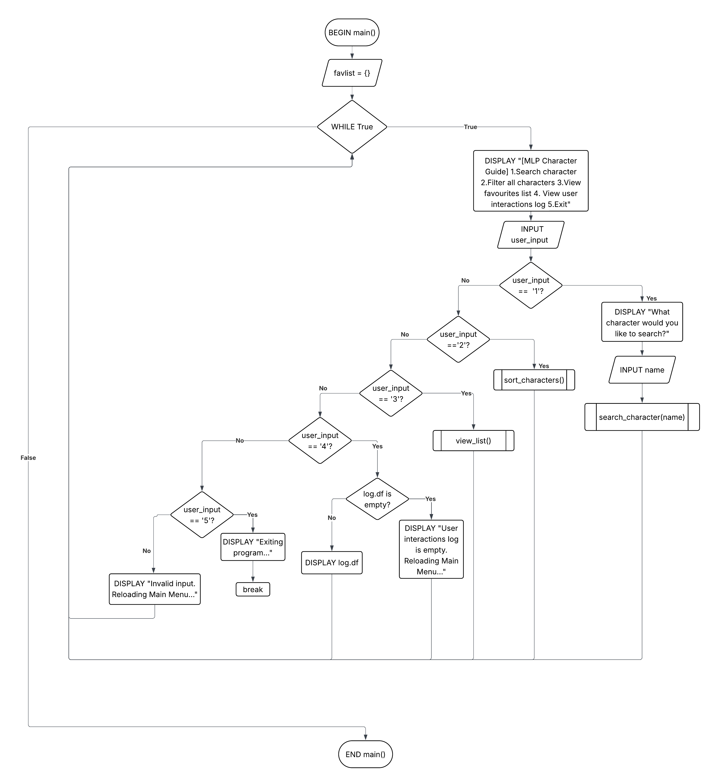
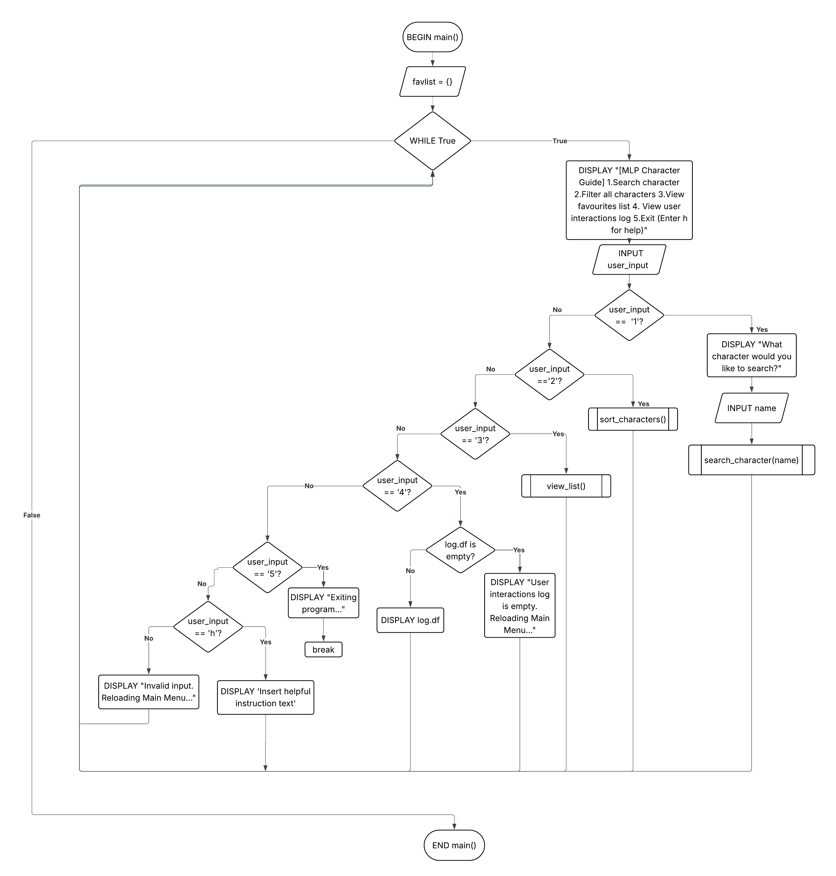
refactor: update flowchart + pseudocode
updated flowchart and pseudocode for main to include help option. ik the help option in my application works in all functions but i just dont think its really needed in my designs for anything other than the main

diff --git a/Documentation.md b/Documentation.md
@@ -202,7 +202,7 @@ BEGIN main()
     CREATE log_df as a dictionary
     CREATE favlist as a dictionary
     WHILE True
-        DISPLAY "[MLP Character Guide!] 1.Search character 2.Sort characters 3.View favourites list 4.View user interactions log 5.Exit"
+        DISPLAY "[MLP Character Guide!] 1.Search character 2.Sort characters 3.View favourites list 4.View user interactions log 5.Exit (Enter h for help)"
         INPUT choice
         IF choice is 1 THEN
             DISPLAY 'What character would you like to search?: '
@@ -217,6 +217,8 @@ BEGIN main()
         ELIF choice is 5 THEN
             DISPLAY 'Exiting program...'
             break
+        ELIF choice is 'h' THEN
+            DISPLAY 'Insert helpful instruction text'
         ELSE
             DISPLAY 'Invalid input. Reloading Main Menu...'
         ENDIF
